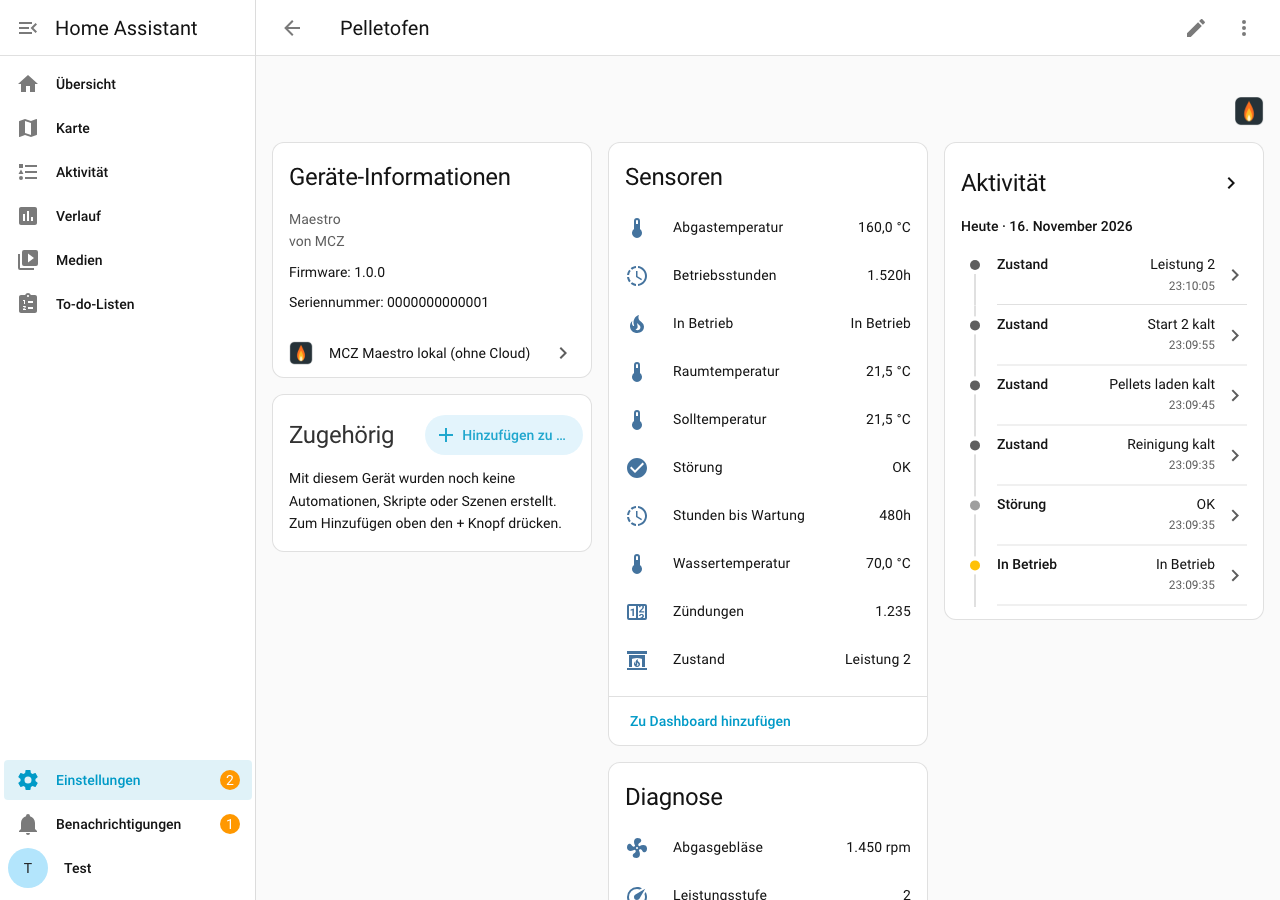
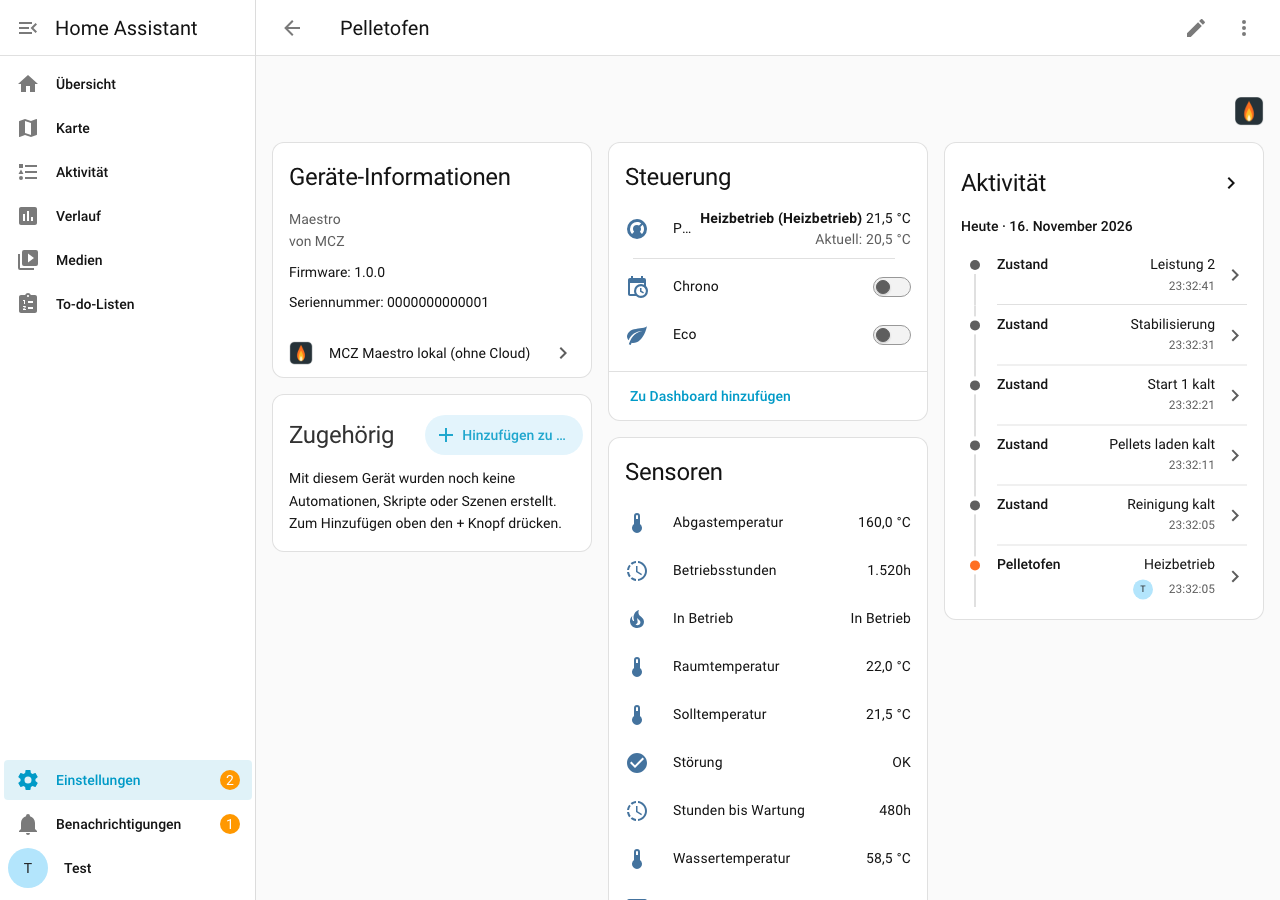
Schalten fertig (0.4.0): Symbole, Handbuch, Simulator-Befehle
Simulator nimmt Schreibbefehle an und hat einen Raumfühler. Handbuch
beschreibt Bedienung, Schutzgrenzen und eigenen Raumfühler.

diff --git a/devtools/testinstanz/mcz_sim/__init__.py b/devtools/testinstanz/mcz_sim/__init__.py
@@ -86,6 +86,15 @@ class SimStove:
                 self.fields[45] += 1
             await asyncio.sleep(wait)
 
+    def apply_write(self, pid: int, val: int) -> None:
+        """Wie der echte Ofen auf Schreibbefehle reagieren."""
+        if pid == 34:
+            self.run_sequence(IGNITION if val == 1 else SHUTDOWN)
+        elif pid == 42:
+            self.fields[26] = val
+        elif pid in (41, 50, 1111):
+            self.fields[{41: 23, 50: 49, 1111: 25}[pid]] = val
+
     def fault(self) -> None:
         if self._sequence:
             self._sequence.cancel()
@@ -185,7 +194,14 @@ class SimStove:
                     return
                 if text.startswith('42["ProvaStufa"'):
                     payload = json.loads(text[2:])[1]
-                    if payload["richiesta"] == "C|C|RecuperoInfo":
+                    req = payload["richiesta"]
+                    if req.startswith("C|C|WriteParametri|"):
+                        pid, val = (int(x) for x in req.split("|")[3:5])
+                        _LOGGER.info("Simulator: Befehl %s = %s", pid, val)
+                        self.apply_write(pid, val)
+                    if req == "C|C|RecuperoInfo" or req.startswith(
+                        "C|C|WriteParametri|"
+                    ):
                         answer = {
                             "stringaRicevuta": self.info_line(),
                             "socketChiamata": payload.get("socketChiamata"),
@@ -212,7 +228,6 @@ async def async_setup(hass: HomeAssistant, config: ConfigType) -> bool:
             task.cancel()
 
     hass.bus.async_listen_once(EVENT_HOMEASSISTANT_STOP, _stop)
-    hass.async_create_task(
-        async_load_platform(hass, Platform.BUTTON, DOMAIN, {}, config)
-    )
+    for platform in (Platform.BUTTON, Platform.SENSOR):
+        hass.async_create_task(async_load_platform(hass, platform, DOMAIN, {}, config))
     return True

diff --git a/devtools/testinstanz/mcz_sim/sensor.py b/devtools/testinstanz/mcz_sim/sensor.py
@@ -1,0 +1,43 @@
+"""Simulierter Raumfühler (für die Option „eigener Raumfühler“)."""
+
+from __future__ import annotations
+
+from datetime import timedelta
+import random
+
+from homeassistant.components.sensor import SensorDeviceClass, SensorEntity
+from homeassistant.const import UnitOfTemperature
+from homeassistant.core import HomeAssistant
+from homeassistant.helpers.event import async_track_time_interval
+
+
+async def async_setup_platform(
+    hass: HomeAssistant, config, add_entities, discovery_info=None
+):
+    """Raumfühler anlegen."""
+    add_entities([SimRoomSensor()])
+
+
+class SimRoomSensor(SensorEntity):
+    """Raumtemperatur Wohnzimmer (erfunden, schwankt leicht)."""
+
+    _attr_name = "Simulator: Raumtemperatur Wohnzimmer"
+    _attr_unique_id = "mcz_sim_room"
+    _attr_device_class = SensorDeviceClass.TEMPERATURE
+    _attr_native_unit_of_measurement = UnitOfTemperature.CELSIUS
+    _attr_should_poll = False
+    _attr_native_value = 20.5
+
+    async def async_added_to_hass(self) -> None:
+        self.async_on_remove(
+            async_track_time_interval(self.hass, self._tick, timedelta(seconds=30))
+        )
+
+    async def _tick(self, _now) -> None:
+        self._attr_native_value = round(
+            min(
+                22.5, max(19.0, self._attr_native_value + random.choice((-0.1, 0, 0.1)))
+            ),
+            1,
+        )
+        self.async_write_ha_state()

diff --git a/devtools/testinstanz/bildschirmfotos.py b/devtools/testinstanz/bildschirmfotos.py
@@ -64,6 +64,10 @@ def main() -> None:
         " | select('search', 'zustand$|wassertemperatur|abgastemperatur')"
         " | join(',') }}",
     )
+    climate = template(
+        tok,
+        "{{ integration_entities('mcz_local') | select('match', 'climate') | first }}",
+    )
     hass_tokens = {
         "access_token": tok["access_token"],
         "token_type": "Bearer",
@@ -97,6 +101,22 @@ def main() -> None:
             page.wait_for_timeout(8000)
             page.screenshot(path=str(ZIEL / name))
             print("gespeichert:", ZIEL / name)
+
+        # Thermostat-Dialog (Mehr-Infos) über die URL öffnen
+        page.goto(
+            f"{BASE}/config/devices/device/{device_id}?more-info-entity-id={climate}"
+        )
+        page.wait_for_timeout(8000)
+        page.screenshot(path=str(ZIEL / "thermostat.png"))
+        print("gespeichert:", ZIEL / "thermostat.png")
+
+        # Optionen-Dialog: Zahnrad der Integration
+        page.goto(f"{BASE}/config/integrations/integration/mcz_local")
+        page.wait_for_timeout(6000)
+        page.get_by_role("button", name="Konfigurieren").first.click()
+        page.wait_for_timeout(4000)
+        page.screenshot(path=str(ZIEL / "optionen.png"))
+        print("gespeichert:", ZIEL / "optionen.png")
         browser.close()
 
 

diff --git a/CLAUDE.md b/CLAUDE.md
@@ -24,8 +24,11 @@ Home-Assistant-Integration, die einen MCZ-Pelletofen mit Maestro-WLAN-Modul **oh
 | `custom_components/mcz_local/entity.py` | Basis-Entität: hört auf den Server, verfügbar nur bei Verbindung; Gerät mit Kennung = Config-Eintrag |
 | `custom_components/mcz_local/sensor.py` | Sensoren; optionale Fühler (Rücklauf, Puffer) erst anlegen, wenn ein Wert kommt |
 | `custom_components/mcz_local/binary_sensor.py` | Verbunden (immer verfügbar), In Betrieb, Störung |
+| `custom_components/mcz_local/control.py` | **Einzige Stelle für Befehle** (`StoveController`): Verbindung, Störung, Takt-Sperre (`last_stop` im `Store`), Sollwert-Grenzen, Fehlermeldungen übersetzt |
+| `custom_components/mcz_local/climate.py` | Thermostat (Ein/Aus, Sollwert; Ist-Temperatur optional vom eigenen Raumfühler) |
+| `custom_components/mcz_local/switch.py` | Eco, Chrono, Töne |
 | `custom_components/mcz_local/icons.json` | Symbole der Entitäten |
-| `custom_components/mcz_local/config_flow.py` | Einrichtung über die Oberfläche (Port), nur ein Eintrag |
+| `custom_components/mcz_local/config_flow.py` | Einrichtung über die Oberfläche (Port), nur ein Eintrag; Optionen: eigener Raumfühler, gespeichert als **Register-ID** (`OptionsFlowWithReload`) |
 | `custom_components/mcz_local/brand/` | Logo `icon.png` (256 px), `icon@2x.png` (512 px) |
 | `custom_components/mcz_local/strings.json`, `translations/` | Texte (Schlüssel nur `[a-z0-9-_]`) |
 | `tests/` | pytest mit `pytest-homeassistant-custom-component` |
@@ -48,6 +51,10 @@ HA-Version beim Nutzer: 2026.11 (Stand 16.11.2026). Die Version von `pytest-home
 Jeder Schritt auf eigenem Zweig → Tests und Linter lokal grün → pushen → GitHub-Prüfungen abwarten → nur bei Grün per Fast-Forward nach `main`. Commit-Texte auf Deutsch. Release: `release.yml` per `workflow_dispatch` auf `main` (liest Version aus `manifest.json`, Text aus `CHANGELOG.md`).
 
 ## Stolperfallen
+- `er.async_validate_entity_id` liefert die entity_id zurück, nicht die Register-ID. Register-ID über `registry.async_get(entity_id).id`.
+- Climate ohne eigenen Namen: `name=None` und **kein** `translation_key`, sonst heißt die Entität „Pelletofen Ofen“.
+- Schreibbefehle in Tests: `server.write_gap = 0` setzen; Takt-Sperre mit zurückdatiertem `controller.last_stop` testen statt Uhr vorspulen (Server wartet mit `asyncio.sleep`).
+- Der Ofen antwortet auf `WriteParametri` direkt mit einer vollständigen `01|…`-Statuszeile.
 - `device_registry.async_get_device` ist veraltet (Fehler in Tests): `dr.async_entries_for_config_entry` verwenden.
 - Test-Instanz: HA aus dem Konfigurationsordner starten (sonst fehlt `mcz_sim`); HTTP-Port-Änderung muss seit HA 2026.11 per WebSocket `http/config/promote` bestätigt werden. Details in `devtools/testinstanz/README.md`.
 - Entitätsnamen in `strings.json` (Englisch) und `translations/de.json`; Auswahl-Optionen des Zustands = `protocol.STATES` + `error`, `unknown` (Test prüft das).
@@ -63,4 +70,5 @@ Jeder Schritt auf eigenem Zweig → Tests und Linter lokal grün → pushen → 
 - Phase 1 (Grundgerüst, Protokoll, Tests) fertig.
 - Phase 2 (Server in der Integration, simulierter Ofen) fertig.
 - Phase 3 (Sensoren, Binärsensoren, Test-Instanz, Handbuch) fertig, Version 0.3.0.
+- Phase 4 (Schalten mit Schutzgrenzen, Raumfühler-Option) fertig, Version 0.4.0, **nur simuliert getestet**. Befehl 34 (Ein/Aus) nicht im Mitschnitt bestätigt.
 - Lesetest mit echtem Ofen erfolgreich (Server-Code auf einem Rechner, nicht in HA): Werte stimmen. Integration selbst noch nicht auf echter Hardware. Raumfühler im Ofen misst zu hoch → Heizungssteuerung mit externen Fühlern. Zusätzlich lokal gegen einen Nachbau aus einem echten Mitschnitt geprüft (Daten nicht im Repo). **Noch nicht mit echter Hardware getestet.**

diff --git a/docs/HANDBUCH.md b/docs/HANDBUCH.md
@@ -1,6 +1,6 @@
 # Handbuch: MCZ Maestro lokal (ohne Cloud)
 
-> ⚠ **Stand 0.3.0: nur lesen.** Die Integration zeigt Werte des Ofens an, schalten kann sie noch nicht. Das Lesen ist mit einem echten Ofen getestet (Werte stimmen mit der Ofenanzeige), die Integration als Ganzes noch nicht. Alle Bilder stammen aus einer simulierten Test-Instanz.
+> ⚠ **Stand 0.4.0.** Lesen und Schalten sind eingebaut. Schalten ist **nur simuliert getestet**, noch nicht am echten Ofen. Das Lesen ist mit einem echten Ofen getestet (Werte stimmen mit der Ofenanzeige), die Integration als Ganzes noch nicht. Alle Bilder stammen aus einer simulierten Test-Instanz.
 
 ## Was die Integration macht
 Das WLAN-Modul (Maestro) im Ofen meldet sich von selbst beim MCZ-Server. Wenn dein Router diese Verbindung auf Home Assistant umleitet, übernimmt diese Integration die Rolle des Servers. Home Assistant fragt dann alle 10 Sekunden den Zustand des Ofens ab. Eine Internetverbindung braucht es dafür nicht.
@@ -38,6 +38,26 @@ Das Gerät **Pelletofen** mit Seriennummer und Firmware des Moduls (werden bei d
 | Diagnose (Zustandsnummer, Leistungsstufe, Pumpe, Abgasgebläse, Platinentemperatur) | Rohwerte für die Fehlersuche |
 
 Ist der Ofen **nicht verbunden**, zeigen alle Werte „Nicht verfügbar“, nur *Verbunden* steht auf *Getrennt*.
+
+## Bedienen
+Das Thermostat **Pelletofen** schaltet den Ofen ein und aus und stellt die Solltemperatur ein (5 bis 30 °C in halben Grad). Dazu kommen die Schalter **Eco**, **Chrono** und **Töne**.
+
+![Thermostat](bilder/thermostat.png)
+
+**Schutzgrenzen** (fest eingebaut, nicht abschaltbar):
+- Befehle gehen nur raus, wenn der Ofen verbunden ist.
+- Meldet der Ofen eine Störung, schaltet Home Assistant ihn nicht ein. Die Störung muss zuerst am Ofen quittiert werden.
+- **Schutz gegen Takten:** Nach dem Ausgehen (egal ob durch Home Assistant, am Ofen selbst oder durch das Chrono) darf der Ofen erst nach **30 Minuten** wieder eingeschaltet werden. Home Assistant meldet sonst, wie lange es noch dauert. Die Sperre bleibt auch über einen Neustart von Home Assistant erhalten.
+- Höchstens ein Befehl pro Sekunde.
+
+**Achtung bei Chrono:** Ist Chrono am Ofen eingeschaltet, schaltet der Ofen zusätzlich nach seinem eigenen Zeitplan. Wenn Home Assistant steuern soll, Chrono ausschalten, damit nur eine Stelle steuert.
+
+## Eigener Raumfühler
+Unter *Einstellungen → Geräte & Dienste → MCZ Maestro lokal → Zahnrad (Konfigurieren)* lässt sich ein eigener Temperaturfühler wählen. Das Thermostat zeigt dann dessen Wert als Ist-Temperatur. Der Fühler im Ofen bleibt als eigener Sensor erhalten. Wird der Fühler später umbenannt, bleibt die Zuordnung bestehen.
+
+![Optionen](bilder/optionen.png)
+
+Hinweis: Der Ofen selbst regelt weiterhin nach seinem eingebauten Fühler. Der eigene Raumfühler ist vorerst nur Anzeige; die Regelung danach kommt mit der Heizungssteuerung.
 
 ## Verlauf
 Zustand und Temperaturen landen im Verlauf von Home Assistant, z. B. um zu sehen, wie oft der Ofen zündet:

diff --git a/docs/KONZEPT.md b/docs/KONZEPT.md
@@ -32,7 +32,7 @@ Ofen (Maestro-Modul) ── TCP, Socket.IO v2 ──> [Router: Umleitung der Clo
 1. ✅ Grundgerüst, Protokoll-Modul, Tests, GitHub-Prüfungen
 2. ✅ Server im HA-Prozess + simulierter Ofen in den Tests
 3. ✅ Nur lesen: Sensoren, „verbunden“, Test-Instanz, Handbuch mit Bildschirmfotos
-4. Schalten: Climate und Schalter mit Schutzgrenzen (zuerst simuliert, dann gemeinsam am echten Ofen)
+4. ✅ (simuliert) Schalten: Climate und Schalter mit Schutzgrenzen (zuerst simuliert, dann gemeinsam am echten Ofen)
 5. Dauerbetrieb (Installation über den Marketplace) und `docs/NETZWERK.md`: allgemeine Anleitung zur Umleitung im Router (DNAT, bei gleichem Netz zusätzlich Masquerade) mit einem neutralen Beispiel, ohne echte Adressen
 6. Später: Heizungssteuerung nach Messphase. Raumtemperatur dabei aus einem oder mehreren **externen** Raumfühlern (der Fühler im Ofen misst zu hoch), z. B. Mittelwert oder Minimum mehrerer Räume.
 

diff --git a/CHANGELOG.md b/CHANGELOG.md
@@ -4,6 +4,15 @@ Alle nennenswerten Änderungen. Format nach [Keep a Changelog](https://keepachan
 
 ## [Unreleased]
 
+## [0.4.0] - 2026-11-16
+### Hinzugefügt
+- Thermostat „Pelletofen“: Ein/Aus und Solltemperatur (5–30 °C, halbe Grad).
+- Schalter Eco, Chrono und Töne.
+- Schutzgrenzen für alle Befehle: nur bei Verbindung, nicht bei Störung, höchstens ein Befehl pro Sekunde, nach dem Ausgehen 30 Minuten Pause vor dem nächsten Einschalten (übersteht Neustarts).
+- Option: eigener Raumfühler als Ist-Temperatur des Thermostats.
+### Wichtig
+- Schaltbefehle sind nur simuliert getestet. Der Befehl Ein/Aus (Parameter 34) stammt aus Community-Angaben und ist noch nicht am echten Ofen bestätigt.
+
 ## [0.3.0] - 2026-11-16
 ### Hinzugefügt
 - Gerät „Pelletofen“ mit Seriennummer und Firmware des Moduls.

diff --git a/README.md b/README.md
@@ -2,7 +2,7 @@
 
 Home-Assistant-Integration für MCZ-Pelletöfen mit Maestro-WLAN-Modul, **ohne MCZ-Cloud**.
 
-> ⚠ **Frühe Entwicklung, nur lesen.** Sensoren ja, Schalten noch nicht.
+> ⚠ **Frühe Entwicklung.** Lesen und Schalten sind eingebaut. **Schalten ist nur simuliert getestet**, noch nicht am echten Ofen.
 > Lesen ist **mit einem echten Ofen getestet** (MCZ Musa Hydro, Maestro-Modul Firmware 1.2.5): Werte stimmen mit der Anzeige am Ofen. Die Home-Assistant-Integration selbst lief dabei noch nicht auf echter Hardware, sondern derselbe Server-Code auf einem Rechner.
 
 Bedienung: [docs/HANDBUCH.md](docs/HANDBUCH.md)
